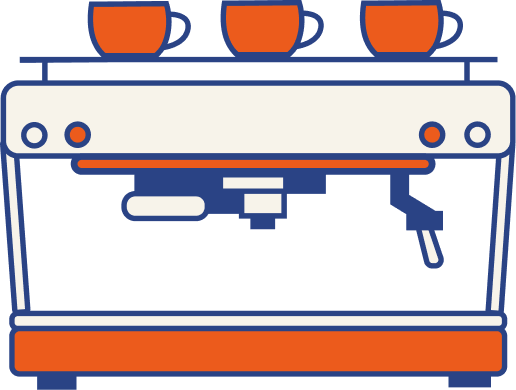
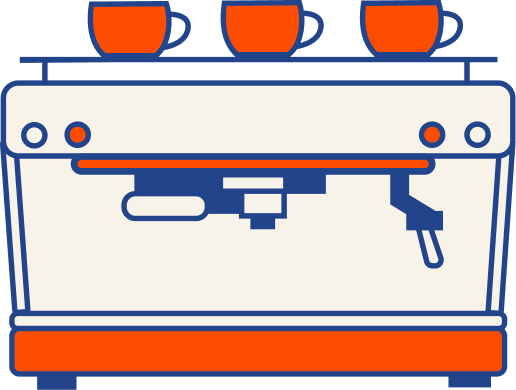
macchinetta caffe fixata e puntatore manina

diff --git a/src/lib/tokens.css b/src/lib/tokens.css
@@ -147,6 +147,18 @@ select {
   -webkit-tap-highlight-color: transparent;
 }
 
+:where(
+  a[href],
+  button:not(:disabled),
+  summary,
+  [role='button'],
+  input[type='button']:not(:disabled),
+  input[type='submit']:not(:disabled),
+  input[type='reset']:not(:disabled)
+) {
+  cursor: url('/cursors/retrogusto-pointer-on-cream.svg?v=3') 4 3, pointer;
+}
+
 canvas,
 img,
 svg {
